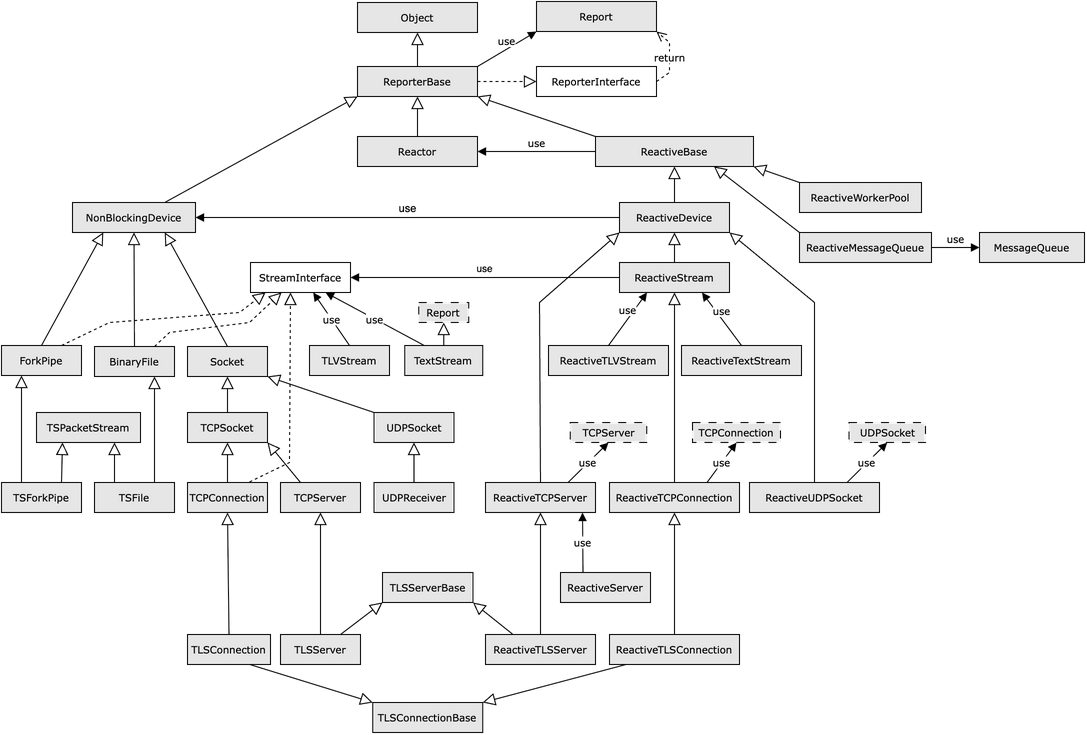
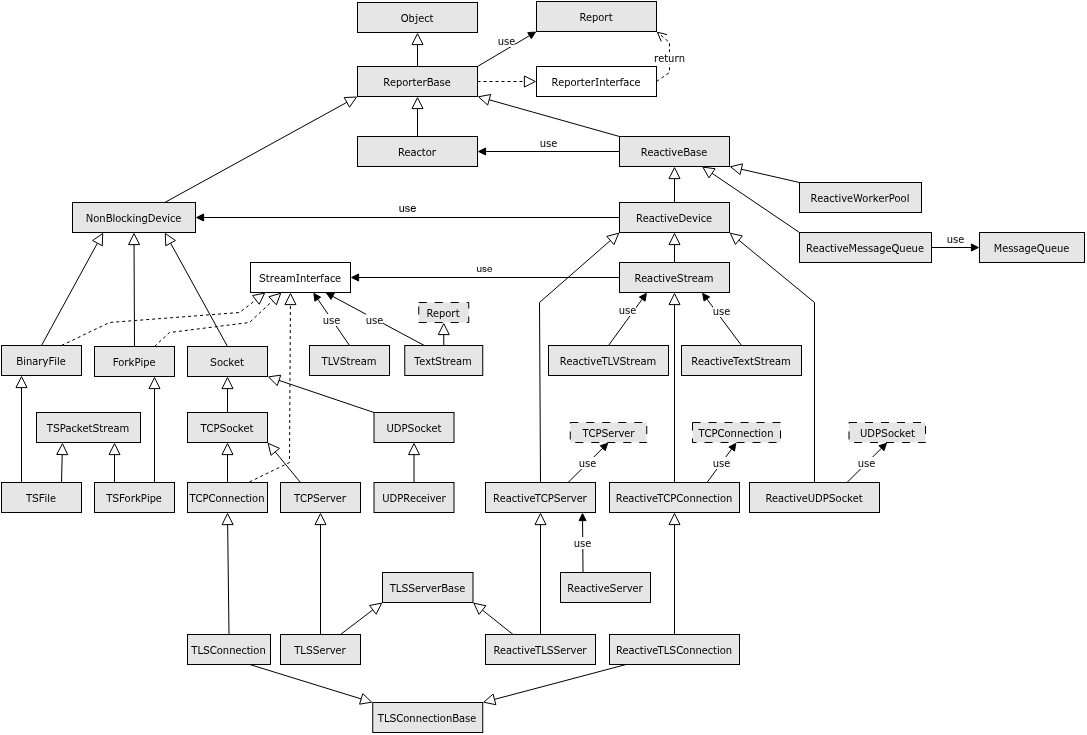
Updated reactive interfaces diagram

diff --git a/diagrams/README.md b/diagrams/README.md
@@ -8,7 +8,6 @@ local application.
 
 - Home page: https://www.drawio.com
 - Online edition: https://draw.io
-- Installing draw.io on macOS: `brew install --cask drawio`
 
 The Makefile rebuilds the PNG and PDF versions of the diagrams.
 
@@ -17,4 +16,37 @@ command line mode. The PNG files which are generated by draw.io are not
 optimized. They are too large. The tool `optipng` is used as postprocessing
 to compress them.
 
-- Installing optipng on macOS: `brew install optipng`
+### Installation on macOS
+
+~~~
+brew install --cask drawio
+brew install optipng
+~~~
+
+### Installation on Ubuntu
+
+~~~
+sudo apt install -y snapd ttf-mscorefonts-installer optipng
+sudo snap install drawio
+~~~
+
+If `.drawio` files are not correctly opened with the draw.io application,
+use the following commands to define the assocation.
+
+~~~
+xdg-mime default drawio_drawio.desktop application/vnd.jgraph.mxfile
+mkdir -p $HOME/.local/share/mime/packages
+
+cat <<EOF >$HOME/.local/share/mime/packages/drawio.xml
+<?xml version="1.0" encoding="UTF-8"?>
+<mime-info xmlns="http://www.freedesktop.org/standards/shared-mime-info">
+  <mime-type type="application/vnd.jgraph.mxfile">
+    <comment>draw.io diagram</comment>
+    <glob pattern="*.drawio"/>
+    <sub-class-of type="application/xml"/>
+  </mime-type>
+</mime-info>
+EOF
+
+update-mime-database $HOME/.local/share/mime
+~~~
